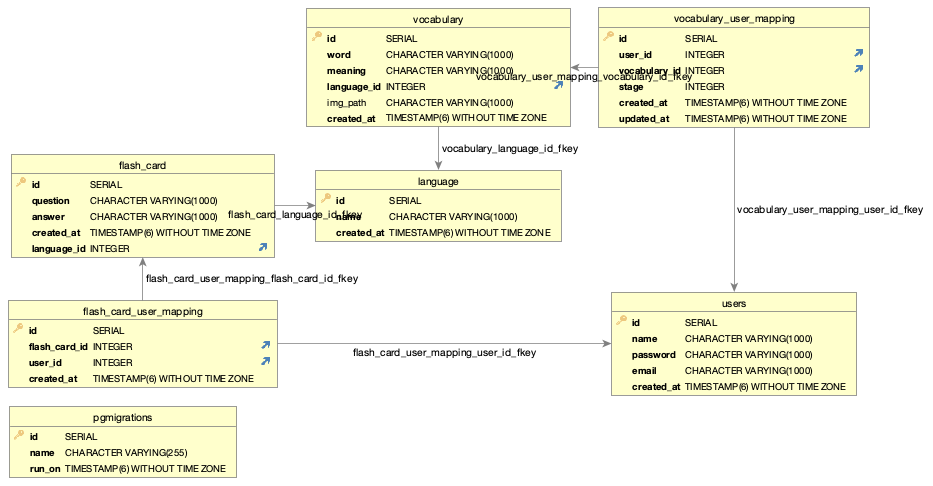
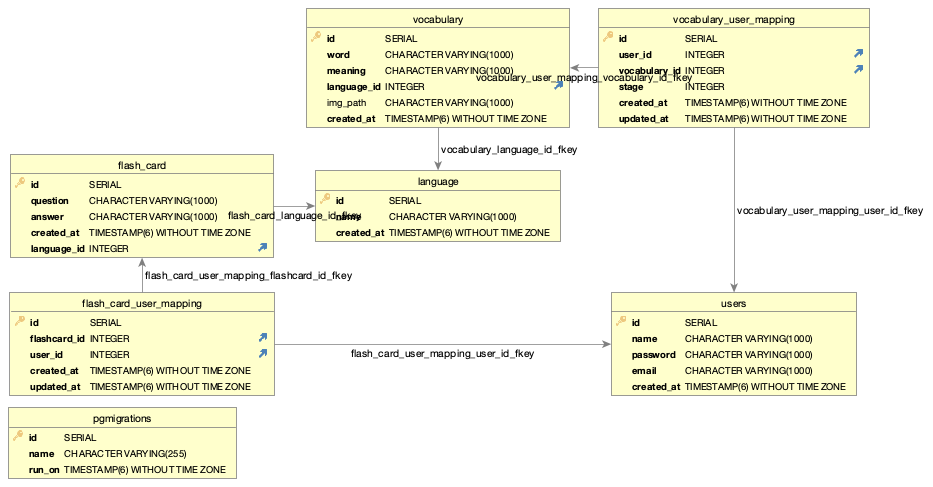
Add FlashCard User Mapping Routes

diff --git a/src/server/router/userRouter.js b/src/server/router/userRouter.js
@@ -6,6 +6,7 @@ const connection = require("../database/connectToDatabase");
 router.use(json());
 router.use(urlencoded({ extended: true }));
 
+//Retrieve all users
 router.get("/user", (req, res) => {
     connection.query("SELECT * FROM users", (err, result) => {
         if (err) {
@@ -16,6 +17,7 @@ router.get("/user", (req, res) => {
     });
 });
 
+//Retrieve a single user by ID
 router.get("/user/:id", (req, res) => {
     const id = parseInt(req.params.id);
     connection.query("SELECT * FROM users WHERE id = $1", [id], (err, result) => {
@@ -27,6 +29,7 @@ router.get("/user/:id", (req, res) => {
     });
 });
 
+//Create a new user
 router.post("/user", (req, res) => {
     const { name, email, password } = req.body;
 
@@ -53,6 +56,7 @@ router.post("/user", (req, res) => {
     });
 });
 
+//Update a user
 router.put("/user/:id", (req, res) => {
     const id = parseInt(req.params.id);
     const { name, email, password } = req.body;
@@ -69,6 +73,7 @@ router.put("/user/:id", (req, res) => {
     );
 });
 
+//Delete a user
 router.delete("/user/:id", (req, res) => {
     const id = parseInt(req.params.id);
     connection.query("DELETE FROM users WHERE id = $1", [id], (err, result) => {
@@ -80,8 +85,9 @@ router.delete("/user/:id", (req, res) => {
     });
 });
 
-router.get("/user/:id/vocabulary", (req, res) => {
-    const id = parseInt(req.params.id);
+//Retrieve all vocabulary for a user
+router.get("/user/:userId/vocabulary", (req, res) => {
+    const id = parseInt(req.params.userId);
     connection.query(
         "SELECT v.* FROM vocabulary v JOIN vocabulary_user_mapping m ON v.id = m.vocabulary_id WHERE m.user_id = $1",
         [id],
@@ -95,8 +101,9 @@ router.get("/user/:id/vocabulary", (req, res) => {
     );
 });
 
-router.post("/user/:id/vocabulary", (req, res) => {
-    const userId = parseInt(req.params.id);
+//Map a vocabulary to a user
+router.post("/user/:userId/vocabulary", (req, res) => {
+    const userId = parseInt(req.params.userId);
     const { vocabularyId, stage } = req.body;
     connection.query(
         "INSERT INTO vocabulary_user_mapping (user_id, vocabulary_id, stage) VALUES ($1, $2, $3)",
@@ -111,8 +118,9 @@ router.post("/user/:id/vocabulary", (req, res) => {
     );
 });
 
-router.put("/user/:id/vocabulary/:vocabularyId", (req, res) => {
-    const userId = parseInt(req.params.id);
+//Update User Vocabulary Mapping
+router.put("/user/:userId/vocabulary/:vocabularyId", (req, res) => {
+    const userId = parseInt(req.params.userId);
     const vocabularyId = parseInt(req.params.vocabularyId);
     const { stage } = req.body;
     connection.query(
@@ -128,8 +136,9 @@ router.put("/user/:id/vocabulary/:vocabularyId", (req, res) => {
     );
 });
 
-router.delete("/user/:id/vocabulary/:vocabularyId", (req, res) => {
-    const userId = parseInt(req.params.id);
+//Delete User Vocabulary Mapping
+router.delete("/user/:userId/vocabulary/:vocabularyId", (req, res) => {
+    const userId = parseInt(req.params.userId);
     const vocabularyId = parseInt(req.params.vocabularyId);
     connection.query(
         "DELETE FROM vocabulary_user_mapping WHERE user_id = $1 AND vocabulary_id = $2",
@@ -139,6 +148,73 @@ router.delete("/user/:id/vocabulary/:vocabularyId", (req, res) => {
                 res.status(500).send("Error deleting vocabulary");
             } else {
                 res.status(200).send("Vocabulary successfully deleted" + result.rows);
+            }
+        }
+    );
+});
+
+//Retrieve all flashcards for a user
+router.get("/user/:userId/flashcard", (req, res) => {
+    const id = parseInt(req.params.userId);
+    connection.query(
+        "SELECT f.* FROM flashcard f JOIN flashcard_user_mapping m ON f.id = m.flashcard_id WHERE m.user_id = $1",
+        [id],
+        (err, result) => {
+            if (err) {
+                res.status(500).send("Error retrieving flashcards from database");
+            } else {
+                res.status(200).json(result.rows);
+            }
+        }
+    );
+});
+
+//Map a flashcard to a user
+router.post("/user/:userId/flashcard", (req, res) => {
+    const userId = parseInt(req.params.userId);
+    const { flashcardId } = req.body;
+    connection.query(
+        "INSERT INTO flashcard_user_mapping (user_id, flashcard_id) VALUES ($1, $2)",
+        [userId, flashcardId],
+        (err, result) => {
+            if (err) {
+                res.status(500).send("Error saving flashcard");
+            } else {
+                res.status(200).send("Flashcard successfully saved" + result.rows);
+            }
+        }
+    );
+});
+
+// Update User Flashcard Mapping
+router.put("/user/:userId/flashcard/:flashcardId", (req, res) => {
+    const userId = parseInt(req.params.userId);
+    const flashcardId = parseInt(req.params.flashcardId);
+    connection.query(
+        "UPDATE flashcard_user_mapping SET updated_at = CURRENT_TIMESTAMP WHERE user_id = $1 AND flashcard_id = $2",
+        [userId, flashcardId],
+        (err, result) => {
+            if (err) {
+                res.status(500).send("Error updating flashcard");
+            } else {
+                res.status(200).send("Flashcard successfully updated" + result.rows);
+            }
+        }
+    );
+});
+
+// Delete User Flashcard Mapping
+router.delete("/user/:userId/flashcard/:flashcardId", (req, res) => {
+    const userId = parseInt(req.params.userId);
+    const flashcardId = parseInt(req.params.flashcardId);
+    connection.query(
+        "DELETE FROM flashcard_user_mapping WHERE user_id = $1 AND flashcard_id = $2",
+        [userId, flashcardId],
+        (err, result) => {
+            if (err) {
+                res.status(500).send("Error deleting flashcard");
+            } else {
+                res.status(200).send("Flashcard successfully deleted" + result.rows);
             }
         }
     );

diff --git a/migrations/1689789659267_createFlashCardUserMapping.js b/migrations/1689789659267_createFlashCardUserMapping.js
@@ -1,7 +1,7 @@
 exports.up = (pgm) => {
     pgm.createTable("flash_card_user_mapping", {
         id: "id",
-        flash_card_id: {
+        flashcard_id: {
             type: "integer",
             notNull: true,
             references: "flash_card",
@@ -14,6 +14,11 @@ exports.up = (pgm) => {
             onDelete: "cascade",
         },
         created_at: {
+            type: "timestamp",
+            notNull: true,
+            default: pgm.func("current_timestamp"),
+        },
+        updated_at: {
             type: "timestamp",
             notNull: true,
             default: pgm.func("current_timestamp"),
